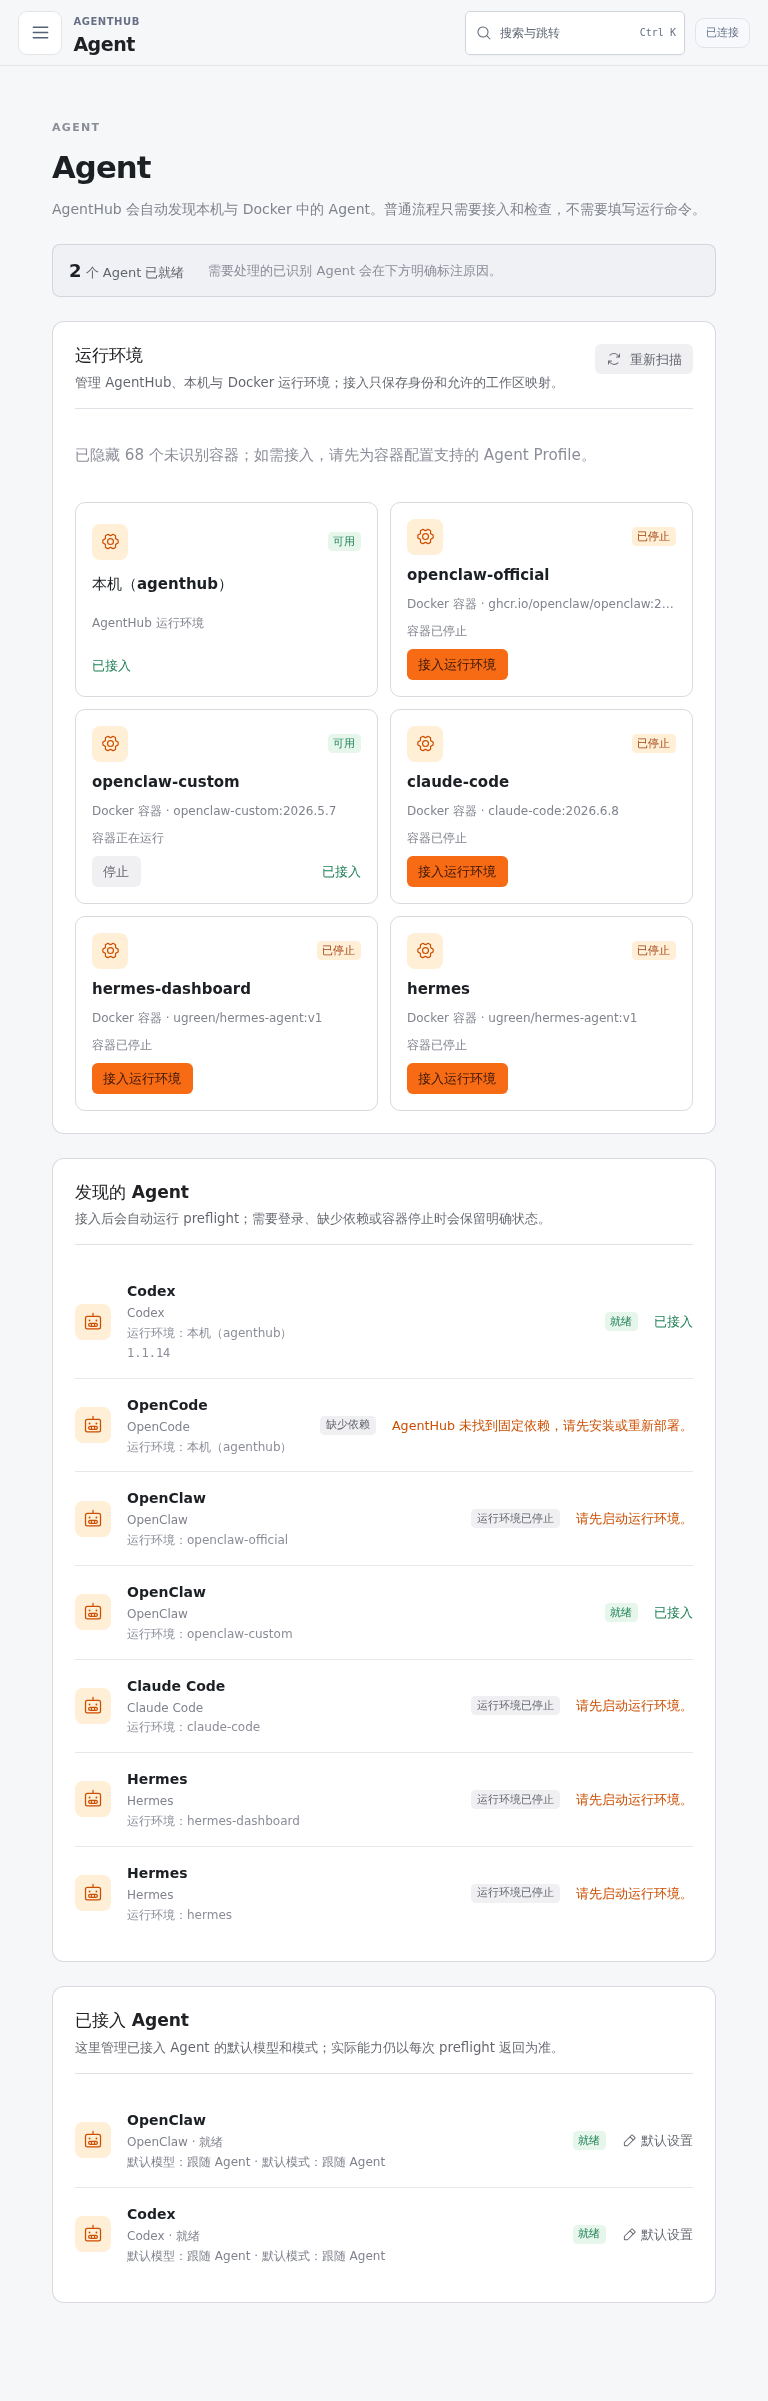
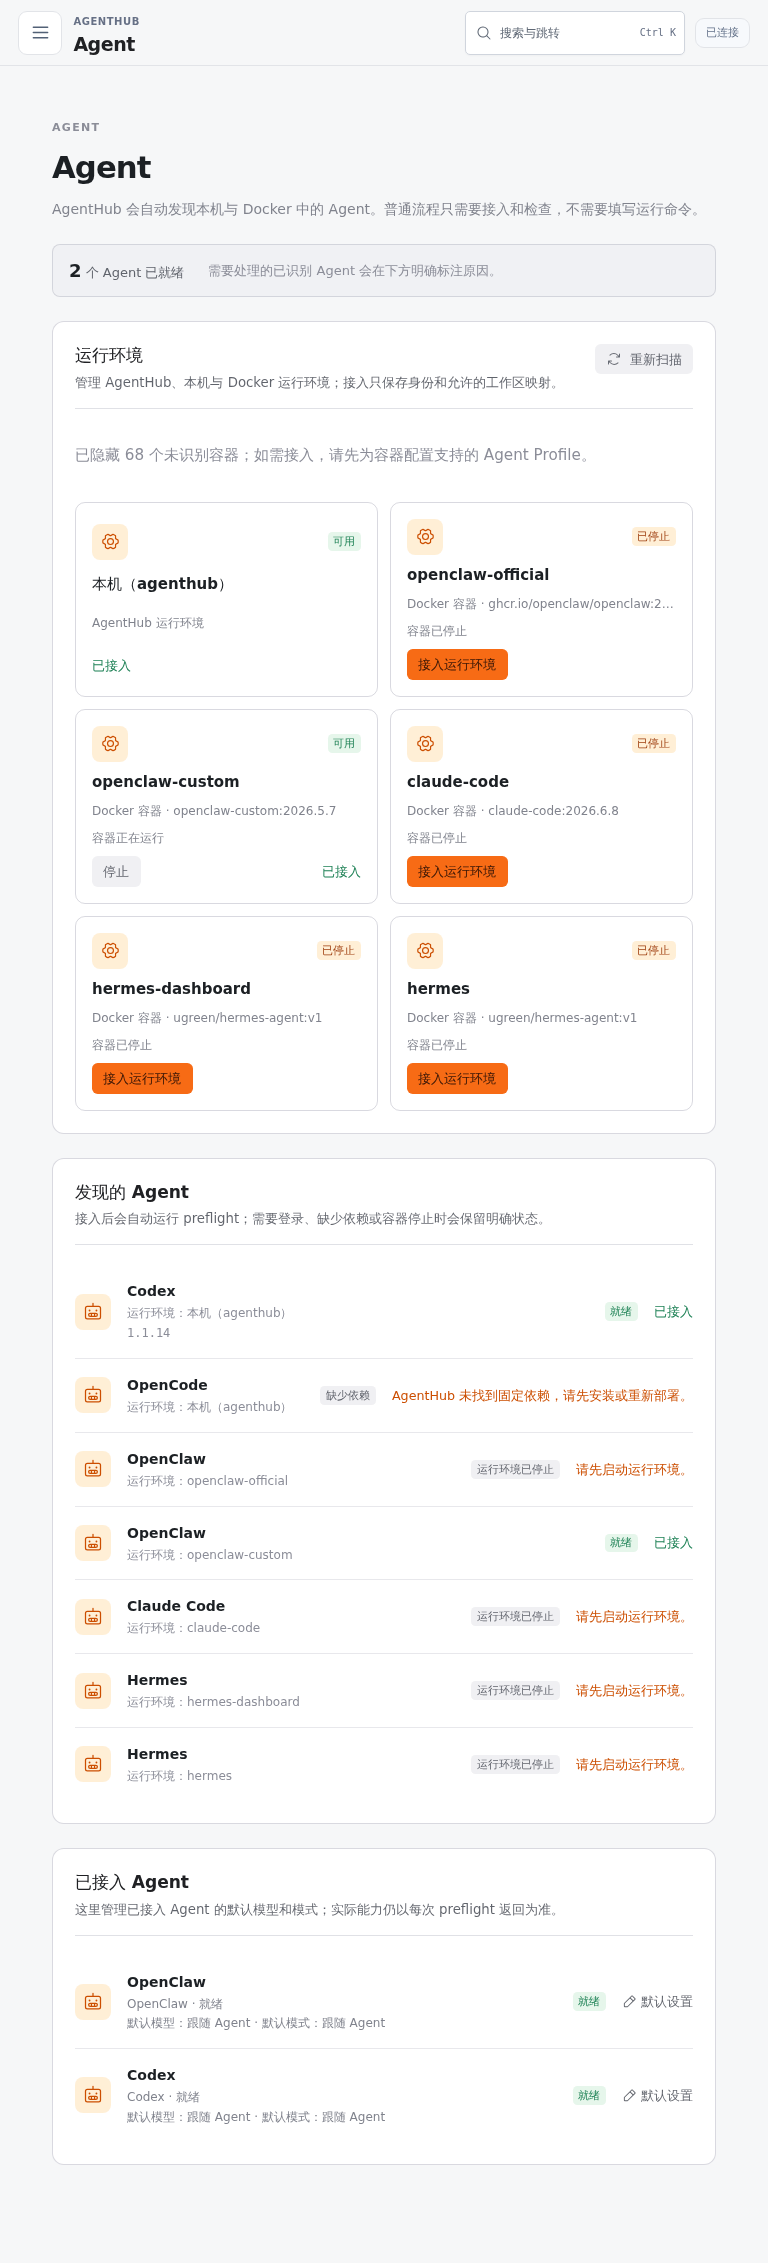
docs(release): 记录 nas50 移动端视觉收口

diff --git a/docs/implementation/PROGRESS.md b/docs/implementation/PROGRESS.md
@@ -4,7 +4,7 @@
 
 ## v0.6 当前 Goal：产品化与可用性重构
 
-状态：`M1-M9 / UX_REFACTOR_COMPLETE · M10 / AUTOMATED_REGRESSION_READY · M12 / NAS11_DEPLOYED · M13 / DISCOVERY_BOUNDARY_NAS12_DEPLOYED · M14 / REMOTE_INVENTORY_NAS13_DEPLOYED · M15 / DISCOVERY_STATUS_NAS14_DEPLOYED · M16 / PROMPTOS_BINDING_UX_NAS15_DEPLOYED · M17 / TASK_REVIEW_COPY_NAS16_DEPLOYED · M18 / REMOTE_PROJECT_PATH_NAS17_DEPLOYED · M19 / ERROR_COPY_NAS18_DEPLOYED · M20 / TERMINAL_COPY_FOCUS_NAS19_DEPLOYED · M24 / RUNTIME_SETTINGS_SURFACE_NAS24_DEPLOYED · M25 / SESSION_CONFIG_NAS25_DEPLOYED · M26 / WORKSPACE_RUN_STATE_NAS26_DEPLOYED · M27 / APPROVAL_TASK_RUNTIME_COPY_NAS28_DEPLOYED · M28 / REMOTE_NODE_ROOT_EDITOR_NAS29_DEPLOYED · M29 / REMOTE_NODE_COPY_NAS31_DEPLOYED · M30 / CLEAN_OVERLAY_RELEASE_NAS31_DEPLOYED · M31 / REMOTE_NODE_GIT_COPY_NAS32_DEPLOYED · M32 / FINAL_AUTOMATED_GATE_PASS · M33 / COMPOSER_A11Y_NAS33_DEPLOYED · M34 / PROMPTOS_PRESENTATION_CODE_READY · M35 / PROMPTOS_PRESENTATION_NAS34_DEPLOYED · M36 / UI_SURFACE_SYMMETRY_NAS35_DEPLOYED · M37 / FOCUS_STYLE_NAS36_DEPLOYED · M38 / ORDINARY_AGENT_SURFACE_NAS37_DEPLOYED · M39 / DASHBOARD_REPO_KIND_NAS38_DEPLOYED · M40 / USER_ERROR_BOUNDARY_NAS39_DEPLOYED · M41 / MALFORMED_ENVELOPE_NAS40_DEPLOYED · M42 / REALTIME_ENVELOPE_NAS41_DEPLOYED · M43 / ERROR_ENVELOPE_NAS42_DEPLOYED · M44 / PROJECT_PICKER_ERROR_RECOVERY_NAS43_DEPLOYED · M45 / PROJECT_PREFLIGHT_RETRY_NAS44_DEPLOYED · M46 / RESPONSIVE_UI_FIX_NAS45_DEPLOYED · M47 / DISCOVERY_FALSE_POSITIVE_NAS47_DEPLOYED · M48 / AGENT_ENVIRONMENT_HIERARCHY_NAS48_DEPLOYED · AUTOMATED_VISUAL_GATE_PASS · ACP/LIVE/VENDOR_MATRIX/TERMINAL_UI_VERIFIED · TX5PRO_MANUAL_PENDING`。
+状态：`M1-M9 / UX_REFACTOR_COMPLETE · M10 / AUTOMATED_REGRESSION_READY · M12 / NAS11_DEPLOYED · M13 / DISCOVERY_BOUNDARY_NAS12_DEPLOYED · M14 / REMOTE_INVENTORY_NAS13_DEPLOYED · M15 / DISCOVERY_STATUS_NAS14_DEPLOYED · M16 / PROMPTOS_BINDING_UX_NAS15_DEPLOYED · M17 / TASK_REVIEW_COPY_NAS16_DEPLOYED · M18 / REMOTE_PROJECT_PATH_NAS17_DEPLOYED · M19 / ERROR_COPY_NAS18_DEPLOYED · M20 / TERMINAL_COPY_FOCUS_NAS19_DEPLOYED · M24 / RUNTIME_SETTINGS_SURFACE_NAS24_DEPLOYED · M25 / SESSION_CONFIG_NAS25_DEPLOYED · M26 / WORKSPACE_RUN_STATE_NAS26_DEPLOYED · M27 / APPROVAL_TASK_RUNTIME_COPY_NAS28_DEPLOYED · M28 / REMOTE_NODE_ROOT_EDITOR_NAS29_DEPLOYED · M29 / REMOTE_NODE_COPY_NAS31_DEPLOYED · M30 / CLEAN_OVERLAY_RELEASE_NAS31_DEPLOYED · M31 / REMOTE_NODE_GIT_COPY_NAS32_DEPLOYED · M32 / FINAL_AUTOMATED_GATE_PASS · M33 / COMPOSER_A11Y_NAS33_DEPLOYED · M34 / PROMPTOS_PRESENTATION_CODE_READY · M35 / PROMPTOS_PRESENTATION_NAS34_DEPLOYED · M36 / UI_SURFACE_SYMMETRY_NAS35_DEPLOYED · M37 / FOCUS_STYLE_NAS36_DEPLOYED · M38 / ORDINARY_AGENT_SURFACE_NAS37_DEPLOYED · M39 / DASHBOARD_REPO_KIND_NAS38_DEPLOYED · M40 / USER_ERROR_BOUNDARY_NAS39_DEPLOYED · M41 / MALFORMED_ENVELOPE_NAS40_DEPLOYED · M42 / REALTIME_ENVELOPE_NAS41_DEPLOYED · M43 / ERROR_ENVELOPE_NAS42_DEPLOYED · M44 / PROJECT_PICKER_ERROR_RECOVERY_NAS43_DEPLOYED · M45 / PROJECT_PREFLIGHT_RETRY_NAS44_DEPLOYED · M46 / RESPONSIVE_UI_FIX_NAS45_DEPLOYED · M47 / DISCOVERY_FALSE_POSITIVE_NAS47_DEPLOYED · M48 / AGENT_ENVIRONMENT_HIERARCHY_NAS48_DEPLOYED · M49 / AGENT_DUPLICATE_LABEL_NAS49_DEPLOYED · M50 / AGENT_MOBILE_WARNING_NAS50_DEPLOYED · AUTOMATED_VISUAL_GATE_PASS · ACP/LIVE/VENDOR_MATRIX/TERMINAL_UI_VERIFIED · TX5PRO_MANUAL_PENDING`。
 
 - 已建立新的 durable Goal，范围以根目录两份 v0.6 方案文档为 Source of Truth。
 - 已读取并冻结 v0.5 基线：HEAD `9040efdf`，Vitest 165 passed/7 skipped，lint、typecheck、
@@ -389,10 +389,12 @@ Session → Run → Message → close`；adopt 响应现在返回最新持久化
 - M46 响应式 UI 修复已提交为 `a5903c5` 并发布 nas.45：移动菜单回到页头布局流，修复 768/390 页头标题裁切；Project 手机卡片操作项拆分为独立行，修复操作文本重叠。Web build 与 Project focused test 通过；Playwright Chromium 对 6 个主要页面执行 1440/1024/768/390 截图，console error 为 0，24 组横向溢出检查全部通过。nas.45 容器 `running/healthy`，health/root HTTP 200、Compose config 和 `node-pty=READY` 通过。升级前备份位于 `/volume2/Project/.agenthub/central/deployments/20260817T040419Z-pre-nas45/`；未执行 `compose down`，未删除镜像、卷、用户数据或其他 Agent 容器。完整视觉记录见 `docs/qa/visual/2026-08-17-v06/`。
 - M47 Agent 发现准确性已提交为 `869fe52` 并发布 nas.47：移除 `claw` 宽泛容器提示，避免把 `clawdash` 误识别为 OpenClaw；discovery focused test 10/10、server build、health/root 和 `node-pty=READY` 通过。升级前备份位于 `/volume2/Project/.agenthub/central/deployments/20260817T043319Z-pre-nas47/`；未执行 `compose down`，未删除镜像、卷、用户数据或其他 Agent 数据。
 - M48 Agent 发现页信息层级已提交为 `96e683d` 并发布 nas.48：Agent 短名称与 `运行环境：...` 次级信息分层，避免 390px 宽度下容器名挤压标题；Discovery focused test 1/1、Web build、overlay build、health/root、Compose config 和 server 工作目录 `node-pty=READY` 通过。真实 NAS Chromium Agent 页面 1440/1024/768/390 四视口 console error 为 0；390px `scrollWidth=clientWidth=bodyScrollWidth=390`。升级前备份位于 `/volume2/Project/.agenthub/central/deployments/20260817T044150Z-pre-nas48/`；未执行 `compose down`，未删除镜像、卷、用户数据或其他 Agent 容器。完整记录见 `docs/qa/nas/2026-08-17-v06-live48/`。
+- M49 Agent 发现列表重复标签已提交为 `a24c298` 并发布 nas.49：当 Agent 类型标签与展示名相同时隐藏重复行，保留运行环境与状态；focused test、Web build、health/root 和 `node-pty=READY` 通过。升级前备份位于 `/volume2/Project/.agenthub/central/deployments/20260817T045355Z-pre-nas49/`；未执行 `compose down`，未删除镜像、卷、用户数据或其他 Agent 容器。
+- M50 Agent 移动端错误提示布局已提交为 `4c0331f` 并发布 nas.50：390px 下错误文案统一落在 Agent 内容列，避免图标列错位；focused test、Web build、overlay build、health/root、Compose config 和 server 工作目录 `node-pty=READY` 通过。真实 NAS Chromium Agent 页面四视口 console error 为 0，390px 截图确认错误提示对齐。升级前备份位于 `/volume2/Project/.agenthub/central/deployments/20260817T045811Z-pre-nas50/`；未执行 `compose down`，未删除镜像、卷、用户数据或其他 Agent 容器。完整记录见 `docs/qa/nas/2026-08-17-v06-live50/`。
 
 ### 当前进行中
 
-- 自动化视觉 gate 已完成：真实 nas.48 Agent 页面在 Chromium headless 下通过 1440/1024/768/390 稳定截图、console 和 390px 横向溢出检查；前一轮六页全量检查仍记录在 nas.45 视觉证据中。TX5Pro/Computer Use 手工通道仍不可用，因此仅保留 `TX5PRO_MANUAL_PENDING`，不伪称人工通过。
+- 自动化视觉 gate 已完成：真实 nas.50 Agent 页面在 Chromium headless 下通过 1440/1024/768/390 稳定截图、console 和 390px 横向溢出检查；前一轮六页全量检查仍记录在 nas.45 视觉证据中。TX5Pro/Computer Use 手工通道仍不可用，因此仅保留 `TX5PRO_MANUAL_PENDING`，不伪称人工通过。
 - 普通用户旅程的后端闭环已有自动化与真实 Codex/Remote Node 证据；Claude Code、Hermes、OpenClaw
   仍按真实 preflight 能力差异呈现，不把缺少 adapter 或 workspace 映射误报为 READY。
 - M24 Runtime 设置入口已在 nas.24 正式发布并完成静态 bundle、健康状态、授权 capability、Terminal smoke 和

diff --git a/docs/RELEASE-v0.6.0.md b/docs/RELEASE-v0.6.0.md
@@ -97,6 +97,7 @@
 | NAS Compose nas.44       | `agenthub:0.6.0-nas.44`，ARM64，revision `3b01c6a`，`running/healthy`，`192.168.5.110:3210`；Project 预检重试 focused test 1 file/1 passed、typecheck/lint/build、health/root HTTP 200、Compose config 和 server 工作目录 node-pty `READY` 通过 |
 | NAS Compose nas.45       | `agenthub:0.6.0-nas.45`，ARM64，revision `a5903c5`，`running/healthy`，`192.168.5.110:3210`；响应式 UI 修复、Web build、Project focused test、自动化视觉四视口 24 组横向溢出、console error 0、health/root HTTP 200、Compose config 和 server 工作目录 node-pty `READY` 通过 |
 | NAS Compose nas.48       | `agenthub:0.6.0-nas.48`，ARM64，revision `96e683d`，`running/healthy`，`192.168.5.110:3210`；Agent 名称/运行环境分层、Web focused test/build、真实 NAS Chromium Agent 四视口 console error 0、390px 横向溢出、health/root HTTP 200、Compose config 和 server 工作目录 node-pty `READY` 通过 |
+| NAS Compose nas.50       | `agenthub:0.6.0-nas.50`，ARM64，revision `4c0331f`，`running/healthy`，`192.168.5.110:3210`；重复 Agent 标签收口、390px 错误提示对齐、Web focused test/build、真实 NAS Chromium Agent 四视口 console error 0、health/root HTTP 200、Compose config 和 server 工作目录 node-pty `READY` 通过 |
 | Remote Node Project      | `cdb7d5b`；Remote Node workflow target preflight、目录授权根、fs.list 相对路径和 traversal 拒绝通过；Route `/api/v1/projects/preflight` 已接入普通用户 PathPicker                                                                                                                                                                                         |
[1 lines of base64/hex data omitted]
 
@@ -305,6 +306,8 @@ UI 对称表面与 nas.35 发布记录见 [`docs/qa/nas/2026-08-16-v06-live35/RE
   `/volume2/Project/.agenthub/central/deployments/20260817T040419Z-pre-nas45/`；nas.44 镜像保留，可按单 service 回滚。升级使用 nas.44 overlay 仅覆盖 server/web dist 并保留 node-pty native binding；升级只重建 `agenthub` service，未执行 `compose down`，未删除镜像、卷、用户数据或其他 Agent 容器。
 - nas.48 已完成自动化视觉 gate，但仍未声明 TX5Pro/人工视觉验收。升级前备份为
   `/volume2/Project/.agenthub/central/deployments/20260817T044150Z-pre-nas48/`；nas.47 镜像保留，可按单 service 回滚。升级使用 nas.47 overlay 仅覆盖 server/web dist 并保留 node-pty native binding；升级只重建 `agenthub` service，未执行 `compose down`，未删除镜像、卷、用户数据或其他 Agent 容器。
+- nas.50 已完成自动化视觉 gate，但仍未声明 TX5Pro/人工视觉验收。升级前备份为
+  `/volume2/Project/.agenthub/central/deployments/20260817T045811Z-pre-nas50/`；nas.49 镜像保留，可按单 service 回滚。升级使用 nas.49 overlay 仅覆盖 server/web dist 并保留 node-pty native binding；升级只重建 `agenthub` service，未执行 `compose down`，未删除镜像、卷、用户数据或其他 Agent 容器。
 - nas.20 曾因常规镜像覆盖 ARM64 `node-pty` binding 而被 supersede；nas.21 已用 overlay 基于 nas.19 修复，
   nas.20/nas.21 镜像均保留，未删除镜像、卷或用户数据。
 - 升级只重建 `agenthub` service，没有执行 `docker compose down`，没有删除镜像、卷、用户数据或其他 Agent 容器。

diff --git a/docs/qa/nas/2026-08-17-v06-live50/README.md b/docs/qa/nas/2026-08-17-v06-live50/README.md
@@ -1,0 +1,43 @@
+# AgentHub v0.6 nas.50 发布记录
+
+日期：2026-08-17
+
+提交：`4c0331f`
+
+镜像：`agenthub:0.6.0-nas.50`
+
+入口：`http://192.168.5.110:3210/`
+
+## 发布内容
+
+- 390px Agent 发现列表隐藏与标题重复的 Agent 类型标签，保留短名称、运行环境和状态信息。
+- 390px 缺少依赖/运行环境停止的错误提示统一放到 Agent 内容列，避免错误文案落在图标列造成视觉错位。
+- 基于已验证的 `agenthub:0.6.0-nas.49` 构建 overlay，仅覆盖 `apps/server/dist` 与 `apps/web/dist`，保留 ARM64 `node-pty` native binding。
+
+## 发布证据
+
+| 检查项 | 结果 |
+| --- | --- |
+| NAS 主机 / 架构 | `DH4300Plus` / `aarch64` |
+| Container | 发布后 `running/healthy` |
+| Image ID | `sha256:21431bce2abcacc9a375be4027a8de6e31f7575b22747e92f74371bc23bef5a7` |
+| Revision label | `4c0331f` |
+| Health | `/api/v1/health` HTTP 200，`version=0.6.0`、`database=pglite`、`web=true` |
+| 根页面 | HTTP 200 |
+| Terminal native | server 工作目录加载 `node-pty=READY` |
+| Compose config | 通过 |
+
+## 验证命令
+
+- `corepack pnpm exec vitest run apps/web/src/pages/v06/DiscoveryPages.test.tsx`：1 file / 1 passed。
+- `corepack pnpm --filter @agenthub/web build`：通过，1716 modules transformed。
+- Docker overlay build：通过；`node-pty` native smoke 通过。
+- Playwright Chromium 真实 NAS Agent 页面：1440、1024、768、390 四视口稳定截图，console error `0`。
+- 390px 截图确认：重复类型标签消失，错误提示与 Agent 内容列对齐，页面无横向溢出。
+
+## 变更边界与回滚
+
+- 升级前备份：`/volume2/Project/.agenthub/central/deployments/20260817T045811Z-pre-nas50/`。
+- 只执行了 `docker compose up -d --no-build agenthub`，没有执行 `compose down`。
+- 未删除容器、镜像、卷、Project、PGlite 数据、worktree 或其他 Agent 数据；nas.49 镜像保留为回滚点。
+- 本记录是自动化 Chromium 视觉验收，不等同于 TX5Pro 人工浏览器验收。

diff --git a/CHANGELOG.md b/CHANGELOG.md
@@ -9,10 +9,10 @@
 - 版本元数据统一为 `0.6.0`，真实 live gate 4 个文件/9 个测试通过；当前收尾全仓 Vitest 51 个文件（221 passed/9 skipped）与 Playwright E2E 24/24 通过；GitHub Actions 历史 release gate 保持全绿；
 - 普通 Agent 发现页与 Remote Node inventory 不再向普通用户显示 `ACP/adapter` 实现细节；新增边界测试防止回归。
 - 概览页 Project 列表将 `repoKind` 映射为“Git / 非 Git”，不再向普通用户显示 `GIT` 原始枚举。
-- 正式 NAS Compose 当前为 `agenthub:0.6.0-nas.48`（revision `96e683d`），入口为 `192.168.5.110:3210`，容器 root/privileged、running/healthy；升级未执行 `compose down`，未删除镜像、卷、用户数据或其他 Agent 容器。
+- 正式 NAS Compose 当前为 `agenthub:0.6.0-nas.50`（revision `4c0331f`），入口为 `192.168.5.110:3210`，容器 root/privileged、running/healthy；升级未执行 `compose down`，未删除镜像、卷、用户数据或其他 Agent 容器。
 - UI CSS 共享层已收敛到 `styles/design-system.css`；按钮对比度修复后四视口 axe 与完整 24 项 Playwright E2E 全部通过。
 
-已知边界：nas.48 已完成 Playwright Chromium 自动化视觉 gate（Agent 页面四视口稳定截图、console 与 390px 横向溢出检查；前一轮六页面全量检查仍有效）；当前仍没有 TX5Pro/Computer Use 通道，因此人工视觉验收保持未验证；请参阅 [`docs/RELEASE-v0.6.0.md`](docs/RELEASE-v0.6.0.md)。
+已知边界：nas.50 已完成 Playwright Chromium 自动化视觉 gate（Agent 页面四视口稳定截图、console 与 390px 横向溢出检查；前一轮六页面全量检查仍有效）；当前仍没有 TX5Pro/Computer Use 通道，因此人工视觉验收保持未验证；请参阅 [`docs/RELEASE-v0.6.0.md`](docs/RELEASE-v0.6.0.md)。
 
 ## 0.3.0 - 2026-08-10
 

diff --git a/docs/qa/visual/2026-08-17-v06/README.md b/docs/qa/visual/2026-08-17-v06/README.md
@@ -2,7 +2,7 @@
 
 日期：2026-08-17
 
-部署：`agenthub:0.6.0-nas.48`  revision：`96e683d`
+部署：`agenthub:0.6.0-nas.50`  revision：`4c0331f`
 
 入口：`http://192.168.5.110:3210/`
 
@@ -16,11 +16,13 @@
 
 ## 结论
 
-`AUTOMATED_VISUAL_GATE_PASS`。本轮确认并修复了三个高影响问题：
+`AUTOMATED_VISUAL_GATE_PASS`。本轮确认并修复了五个高影响问题：
 
 1. 768/390 宽度下移动菜单使用旧的 fixed 样式覆盖页头，导致 `AGENTHUB`/页面标题只露出尾部；现在菜单回到页头布局流，标题完整可见。
 2. 手机端 Project 卡片的“开始会话”和“编辑/归档”共用同一 CSS Grid 行，操作文本相互覆盖；现在操作项按独立行排列。
 3. Agent 发现列表将 Agent 短名称与运行环境分成独立层级，避免 390px 宽度下容器名挤进标题并造成不必要的折返。
+4. Agent 发现列表不再同时显示相同的 Agent 名称与类型标签，减少重复信息。
+5. 390px 下缺少依赖/运行环境停止的错误提示统一放在 Agent 内容列，避免落入图标列造成错位。
 
 复核结果：
 
@@ -29,6 +31,7 @@
 - 登录页显示单一密码查看按钮，品牌图标为网络节点图标，不再使用大写 `A` 占位。
 - Agent 页面在等待扫描完成后显示真实运行环境、容器停止状态、依赖缺失和已接入 Agent；初始加载骨架截图不作为验收证据。
 - nas.48 Agent 页面 390px 回归的 `scrollWidth`、`clientWidth`、`bodyScrollWidth` 均为 `390`，console error 为 `0`；截图显示 `Codex`、`OpenClaw`、`Claude Code`、`Hermes` 标题与 `运行环境：...` 次级信息分层。
+- nas.50 Agent 页面 390px 截图确认重复类型标签已移除，错误提示与内容列对齐；四视口 console error 仍为 `0`。
 
 ## 关键截图
 

diff --git a/deploy/compose/README.md b/deploy/compose/README.md
@@ -1,6 +1,6 @@
 # AgentHub v0.6 NAS Compose 部署
 
-该配置用于当前 ARM64 绿联 NAS，当前正式镜像为 `agenthub:0.6.0-nas.48`。它按用户明确授权以 root/privileged 运行，并拥有 Project
+该配置用于当前 ARM64 绿联 NAS，当前正式镜像为 `agenthub:0.6.0-nas.50`。它按用户明确授权以 root/privileged 运行，并拥有 Project
 读写、Codex HOME、Git identity 配置、Docker socket 和 host Docker CLI。该能力等同 NAS root，
 只能运行可信镜像。
 
